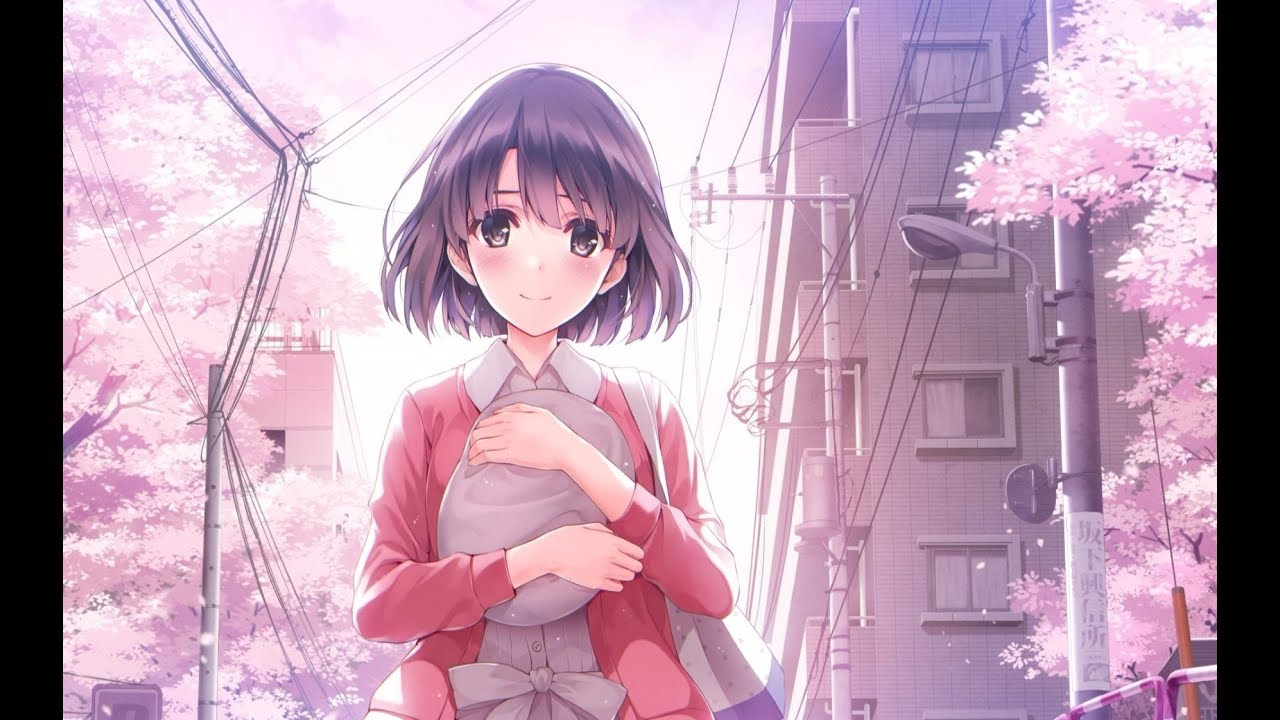
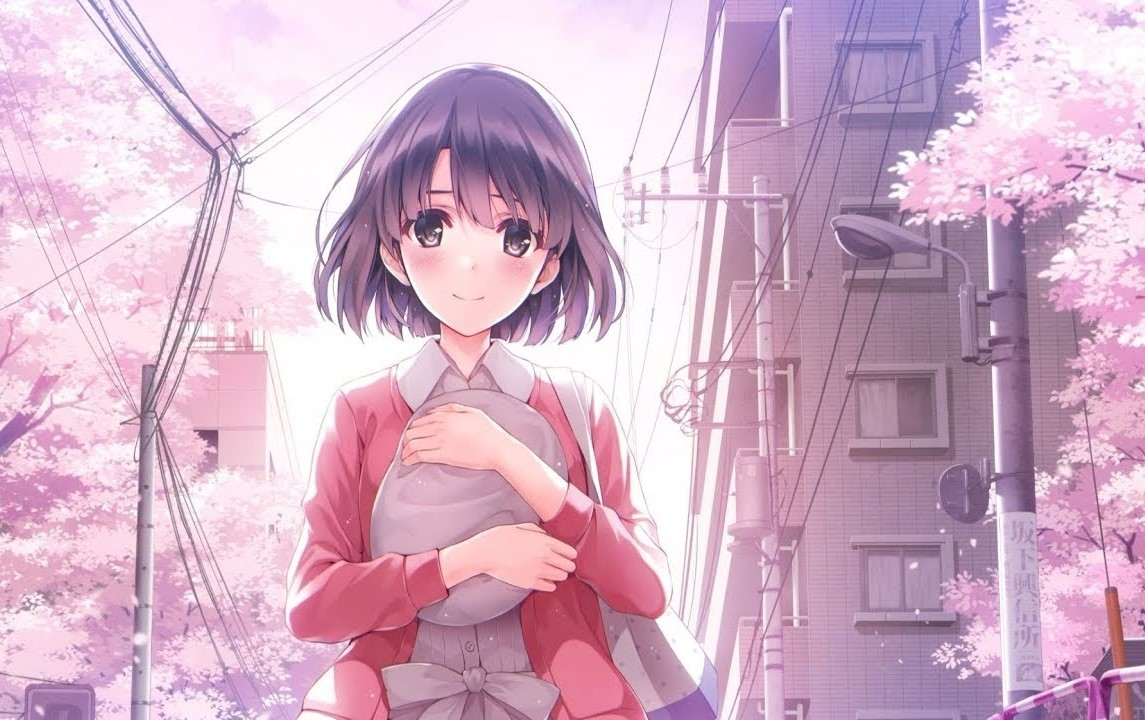
commit ver.1

diff --git a/index.html b/index.html
@@ -94,12 +94,12 @@
       <h5>Hackmd, Jun 1, 2020</h5>
       <a href="https://hackmd.io/@Deron">
         <img alt="Hackmd" src="https://Deron5566.github.io/theme/images/wife1.jpg"
-        width="100%" height="200px">
+        width="500px" height="200px">
       </a>
-      <p>Some codes and notes in Hackmd</p>
+      <p>Some codes and notes in Hackmd...</p>
     </div>
     <div class="card">
-      <h2>My Favorite Rappers</h2>
+      <h2><span style="font-family : Microsoft YaHei;">一月推薦歌單</span></h2>
       <h5>Hip Hop, Jun 1, 2020</h5>
       <ul>
         <li>Snoop Dogg</li>
@@ -111,8 +111,8 @@
   <div class="rightcolumn">
     <div class="card">
       <h2>About Me</h2>
-      <img alt="Me" src="https://Deron5566.github.io/theme/images/wife2.jpg"
-      width="100%" height="100px">
+      <img alt="Deron" src="https://Deron5566.github.io/theme/images/wife3.jpg"
+      width="100px" height="100px">
       <p>Graduate From PTHS</p>
       <p>National Tsing Hua University</p>
       <p>Department of Computer Science</p>
@@ -128,8 +128,8 @@
     </div>
     <div class="card">
       <h3>Follow Me</h3>
-      <p>IG : _deronzheng_</p>
-      <p>E-mail : s108062107@m108.nthu.edu.tw</p>
+      <p>IG : <br/ >_deronzheng_</p>
+      <p>E-mail : <br/ >s108062107@m108.nthu.edu.tw</p>
     </div>
   </div>
 </div>
